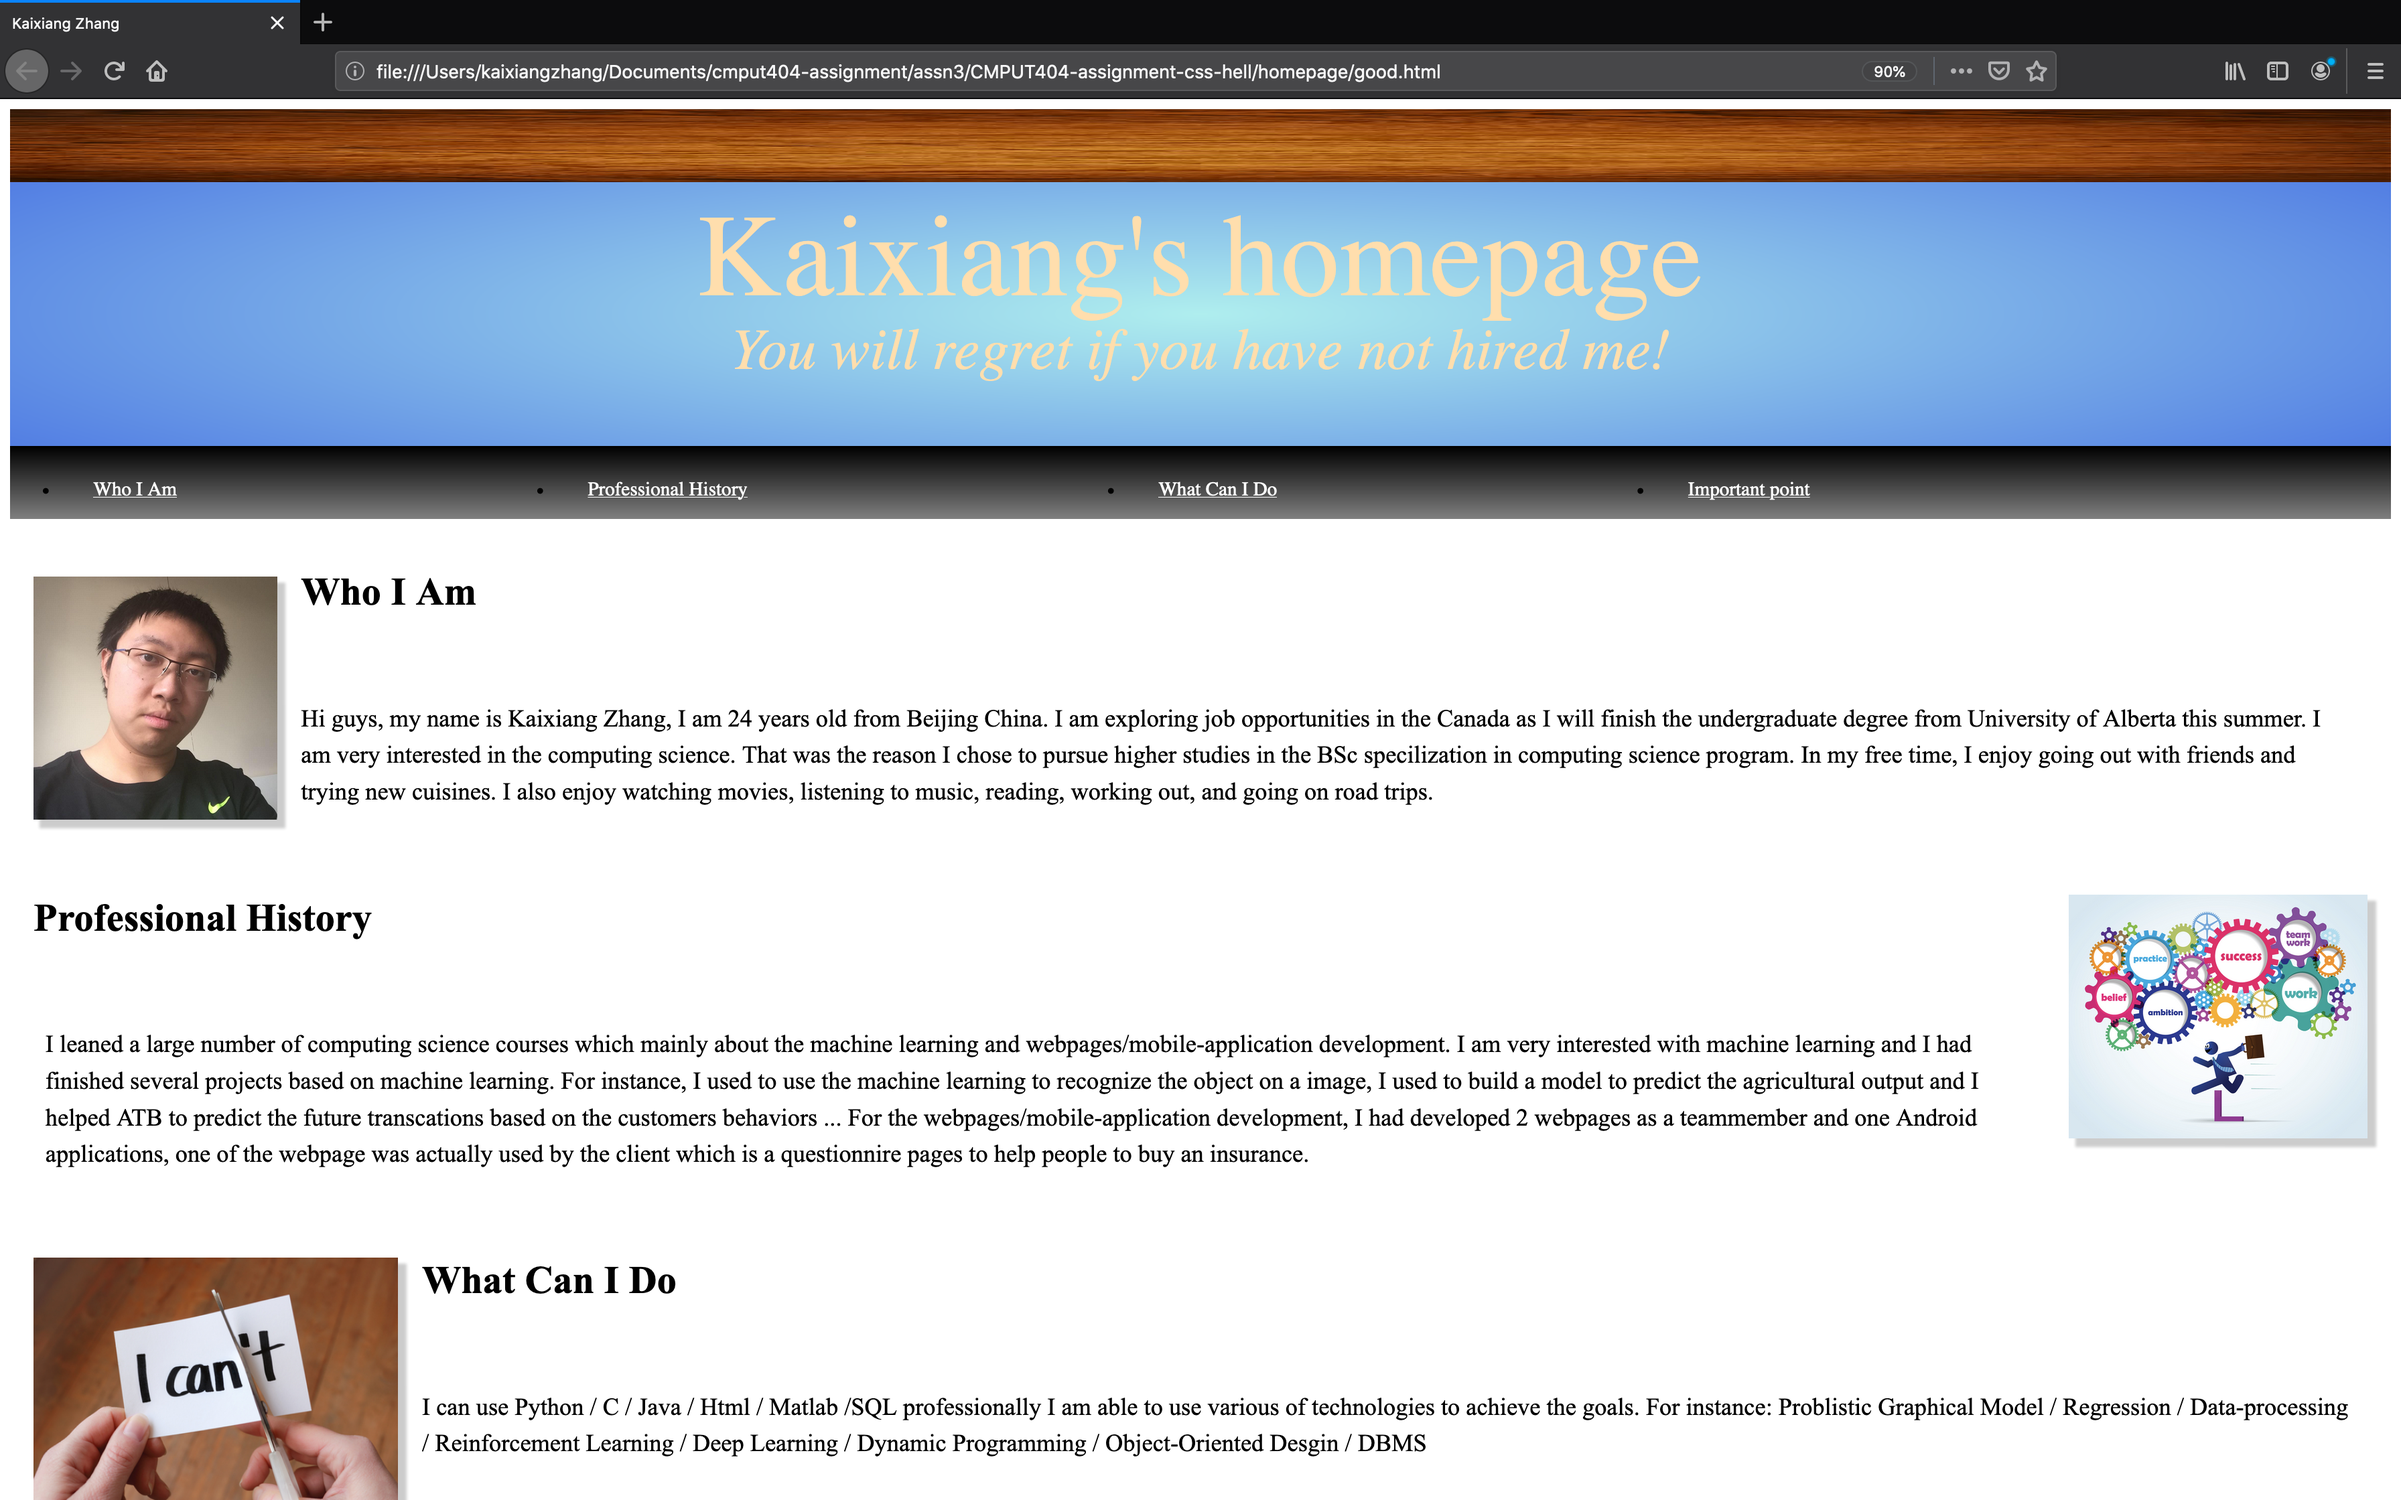
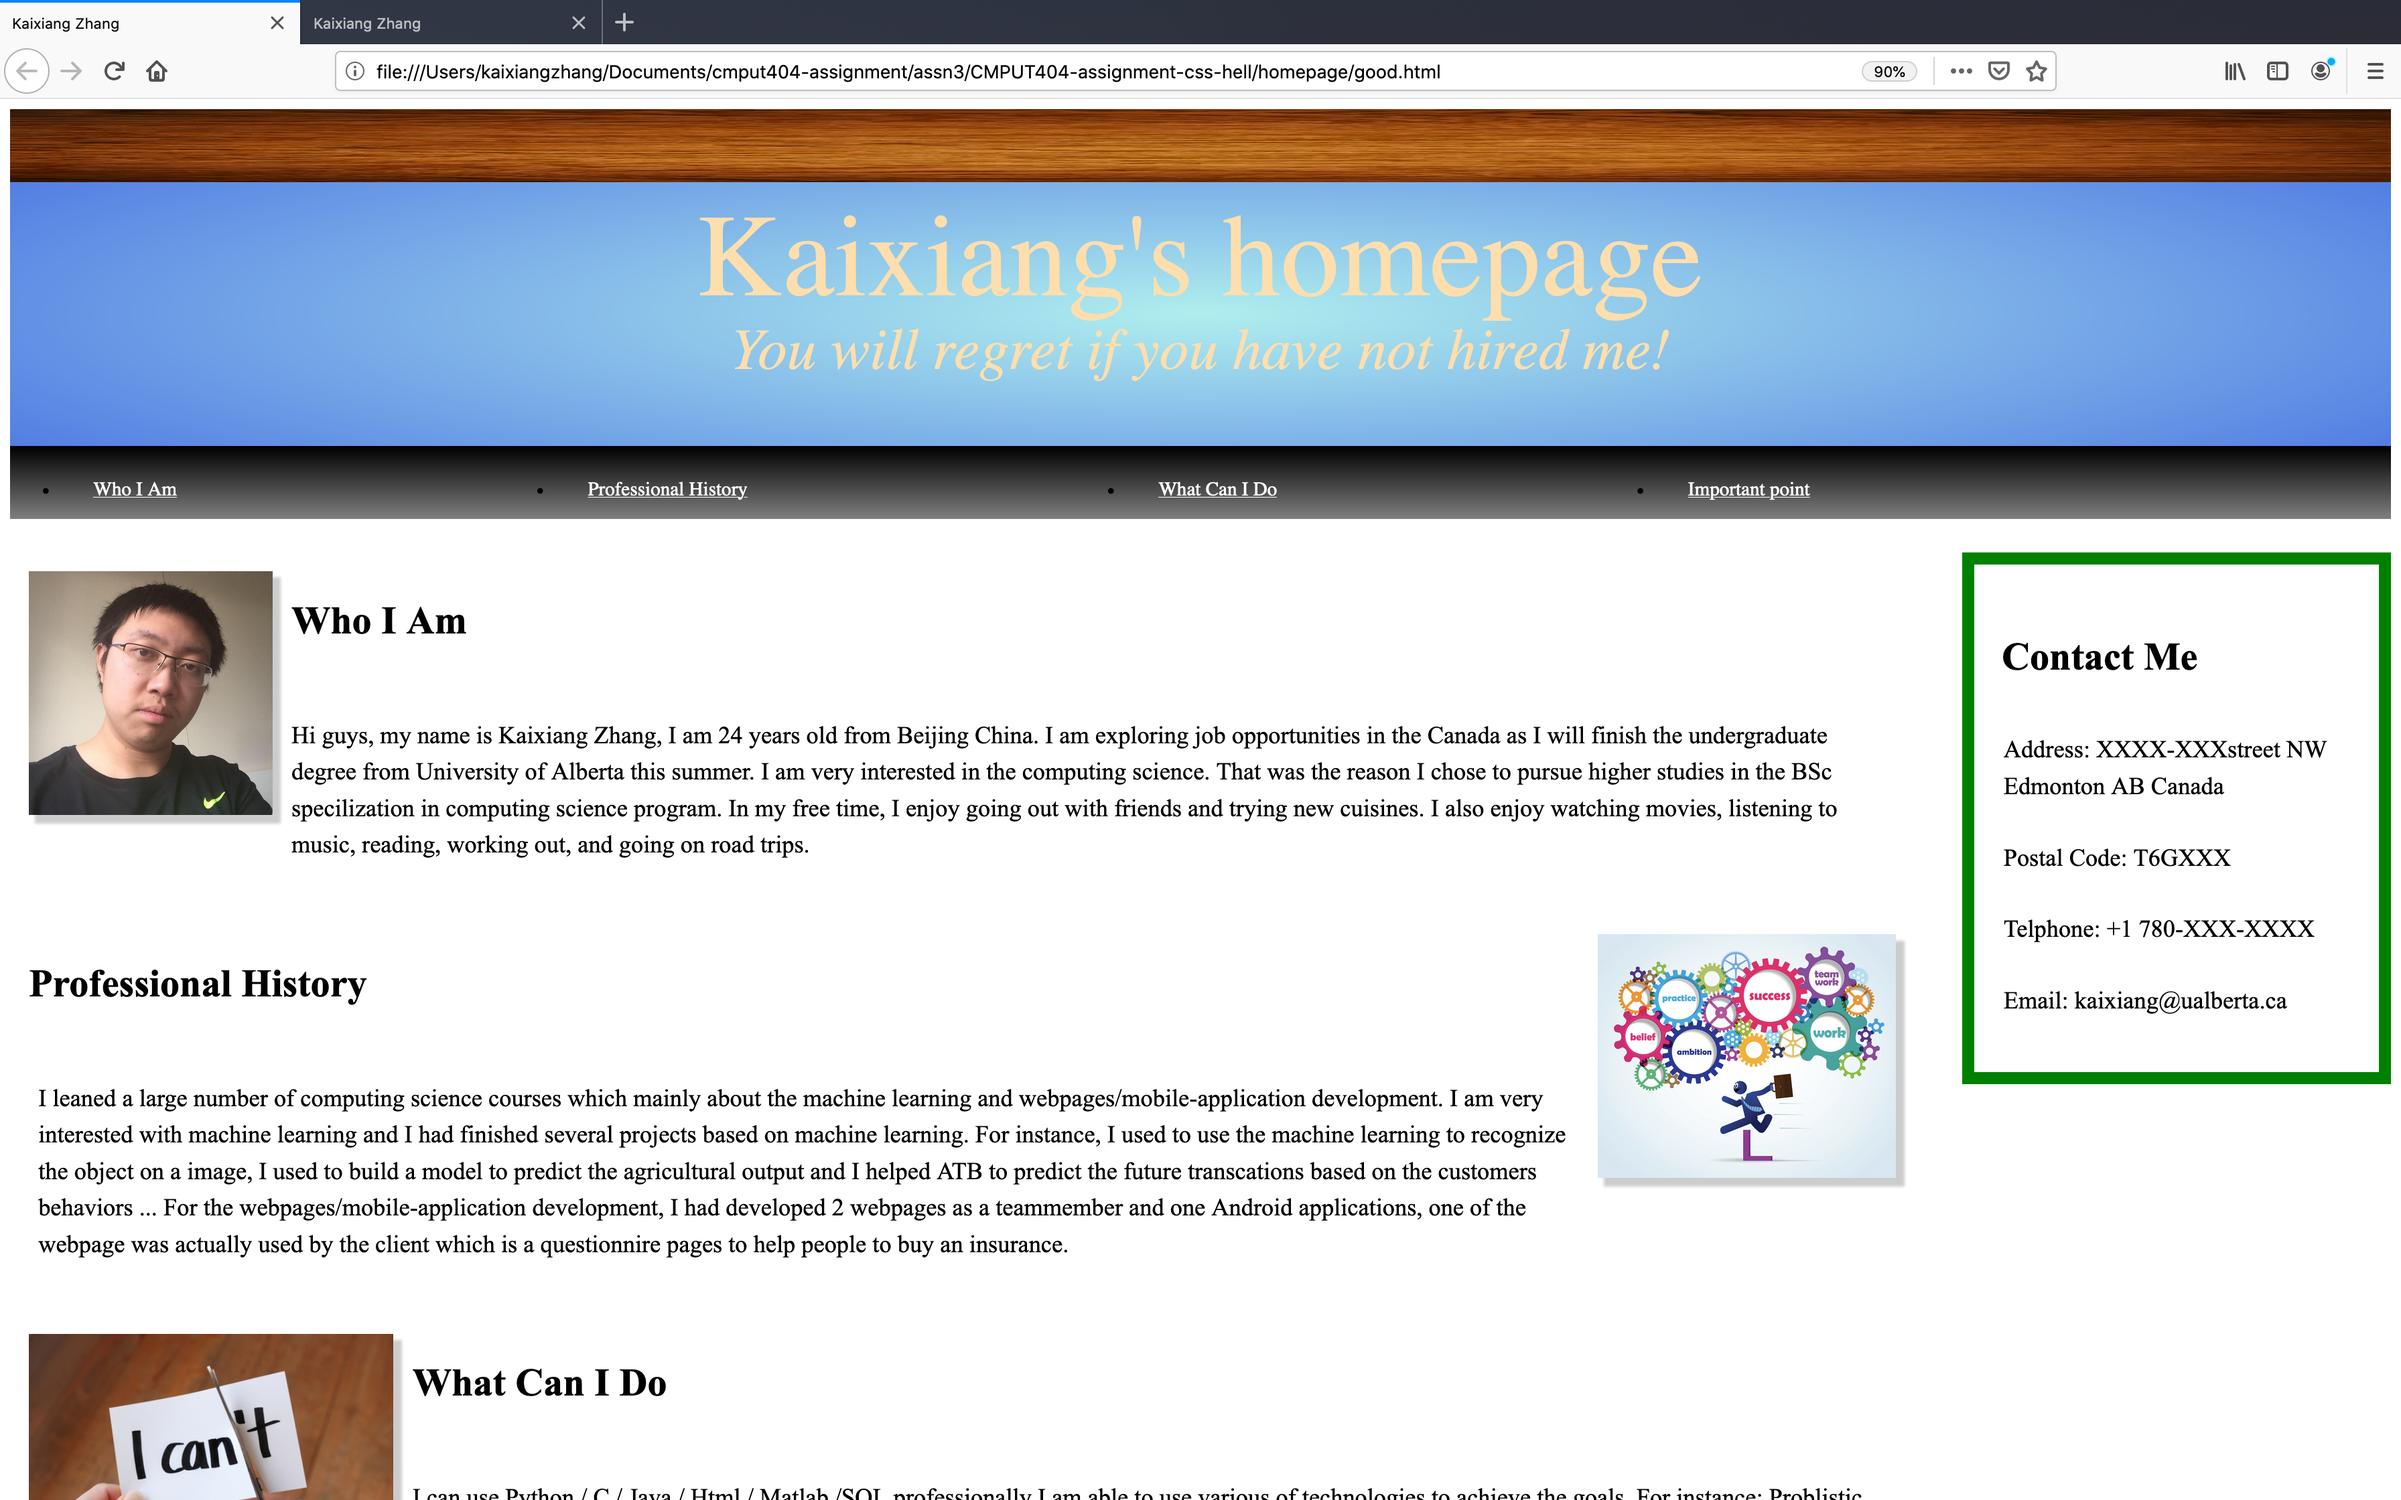
final_push

Changed region(s): [[0.0, 0.3438, 1.0, 1.0], [0.0, 0.0, 1.0, 0.0938], [0.7812, 0.9375, 0.8125, 0.9688]]

diff --git a/homepage/good.html b/homepage/good.html
@@ -24,6 +24,13 @@
         </ul>
       </div>
     </div>
+		<div class="side">
+          <h1>Contact Me</h1>
+            <p>Address: XXXX-XXXstreet NW Edmonton AB Canada</p>
+						<p>Postal Code: T6GXXX</p>
+               <p>Telphone: +1 780-XXX-XXXX</p>
+               <p>Email: kaixiang@ualberta.ca</p>
+      </div>
     <div class="Who_I_Am">
       <img class="image1" src="me.JPG" height="200" align ="left"></img>
       <h1>Who I Am</h1>
@@ -53,7 +60,7 @@
     <div class="Important_point">
       <img class="image4" src="cm.png" height="200" align ="right"></img>
       <h1>Important points about me</h1>
-      <p>I enjoy working as a team member and I also can do the individual works. I can work on data-preprocessing / modeling / analyzing / storing the data (DBMS and back-end). Also I enjoy learning new things. 
+      <p>I enjoy working as a team member and I also can do the individual works. I can work on data-preprocessing / modeling / analyzing / storing the data (DBMS and back-end). Also I enjoy learning new things.
       </p>
     </div>
 

diff --git a/homepage/good.css b/homepage/good.css
@@ -31,6 +31,7 @@ h1 {
 	color: NavajoWhite;
 	text-align: center;
 }
+
 .name{
 	font-size: 6em;
 }
@@ -41,6 +42,34 @@ h1 {
 .navigation_bar{
 	background: linear-gradient(Black,Grey);
 	height: 60px;
+}
+.side{
+	border: 10px solid green;
+	line-height:400%;
+	width:15%;
+	padding: 1%;
+	height: 100%;
+	float: right;
+}
+.Who_I_Am{
+	width:80%;
+	height: 100%;
+	float: left;
+}
+.Professional_History{
+	width:80%;
+	height: 100%;
+	float: left;
+}
+.What_Can_I_Do{
+	width:80%;
+	height: 100%;
+	float: left;
+}
+.Important_point{
+	width:80%;
+	height: 100%;
+	float: left;
 }
 /* https://developer.mozilla.org/zh-CN/docs/Web/CSS/box-shadow */
 .image1{

diff --git a/homepage/ugly.css b/homepage/ugly.css
@@ -41,4 +41,33 @@ h1 {
 	background: linear-gradient(Black,Grey);
 	height: 60px;
 }
+.side{
+	border: 10px solid white;
+  background-color: violet;
+	line-height:400%;
+	width:15%;
+	padding: 1%;
+	height: 100%;
+	float: right;
+}
+.Who_I_Am{
+	width:80%;
+	height: 100%;
+	float: left;
+}
+.Professional_History{
+	width:80%;
+	height: 100%;
+	float: left;
+}
+.What_Can_I_Do{
+	width:80%;
+	height: 100%;
+	float: left;
+}
+.Important_point{
+	width:80%;
+	height: 100%;
+	float: left;
+}
 /* https://developer.mozilla.org/zh-CN/docs/Web/CSS/box-shadow */

diff --git a/homepage/ugly.html b/homepage/ugly.html
@@ -24,6 +24,13 @@
         </ul>
       </div>
     </div>
+		<div class="side">
+          <h1>Contact Me</h1>
+            <p>Address: XXXX-XXXstreet NW Edmonton AB Canada</p>
+						<p>Postal Code: T6GXXX</p>
+               <p>Telphone: +1 780-XXX-XXXX</p>
+               <p>Email: kaixiang@ualberta.ca</p>
+      </div>
     <div class="Who_I_Am">
       <img class="image1" src="me.JPG" height="200" align ="left"></img>
       <h1>Who I Am</h1>
